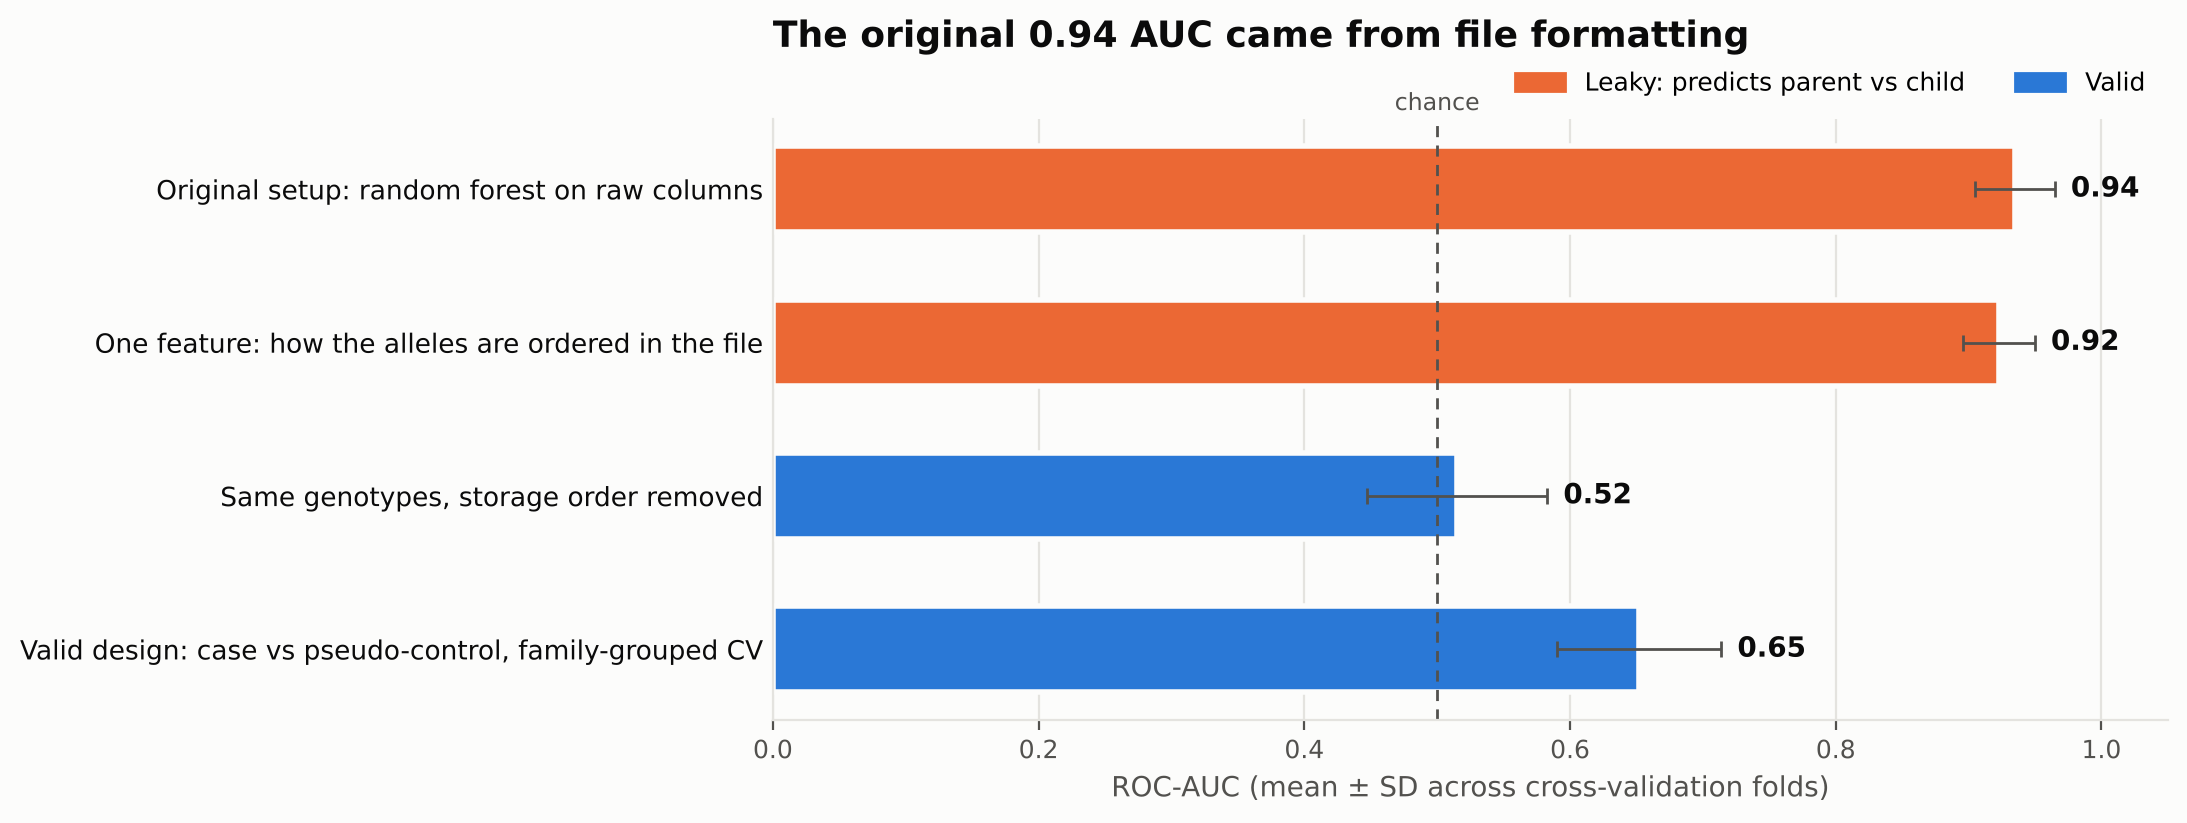
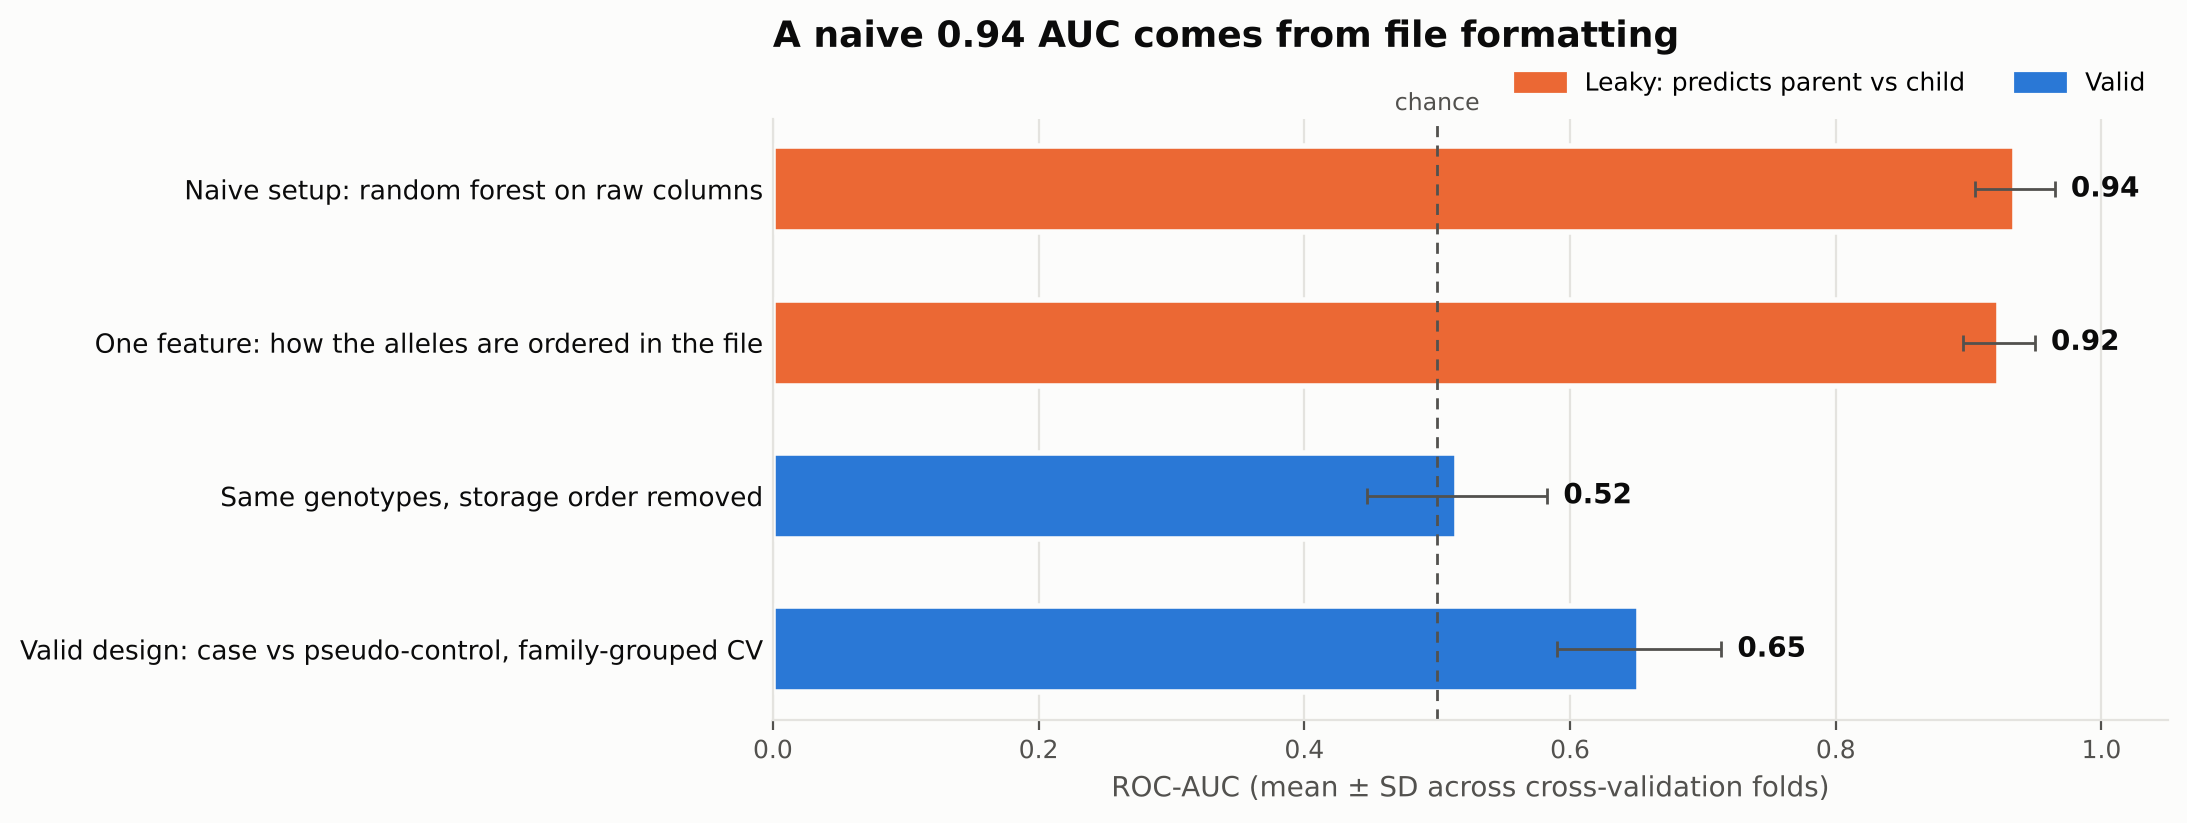
Reword leakage audit as an audit of a naive setup

Changed region(s): [[0.342, 0.0, 0.8084, 0.0608], [0.0622, 0.2126, 0.1244, 0.243]]

diff --git a/src/audit.py b/src/audit.py
@@ -1,7 +1,7 @@
-"""Leakage audit: why the original classifier scored 0.94 ROC-AUC.
+"""Leakage audit: why a naive classifier on this dataset scores 0.94 ROC-AUC.
 
-The first version of this project trained classifiers on the raw columns
-to separate label 2 ("Crohn's") from label 0 ("control"). Three things
+The obvious approach is to train a classifier on the raw columns to
+separate label 2 ("Crohn's") from label 0 ("control"). Three things
 explain its score, and none of them is biology:
 
 1. Label 0 means "status unknown", and every label-0 row is a parent.
@@ -42,7 +42,7 @@ def _logreg():
     return make_pipeline(SimpleImputer(), StandardScaler(), LogisticRegression(max_iter=5000))
 
 
-def original_labels(df: pd.DataFrame) -> np.ndarray:
+def naive_labels(df: pd.DataFrame) -> np.ndarray:
     return (df["crohn"] == AFFECTED).astype(int).to_numpy()
 
 
@@ -67,9 +67,9 @@ def order_flip_rate(df: pd.DataFrame) -> np.ndarray:
 
 
 def run_audit(df: pd.DataFrame) -> tuple[dict, np.ndarray]:
-    y = original_labels(df)
+    y = naive_labels(df)
     founders = is_founder(df)
-    raw = df.drop(columns=ID_COLS + ["crohn"])  # what the original pipeline used
+    raw = df.drop(columns=ID_COLS + ["crohn"])  # what a naive pipeline would use
     a1, a2 = alleles(df)
     order_free = dosage(a1, a2, allele_coding(df))
     flip = order_flip_rate(df)
@@ -87,8 +87,8 @@ def run_audit(df: pd.DataFrame) -> tuple[dict, np.ndarray]:
             "children_mean": round(float(flip[~founders].mean()), 3),
         },
         "auc": {
-            "original_raw_columns_logreg": _auc(_logreg(), raw, y),
-            "original_raw_columns_random_forest": _auc(rf, raw, y),
+            "naive_raw_columns_logreg": _auc(_logreg(), raw, y),
+            "naive_raw_columns_random_forest": _auc(rf, raw, y),
             "order_flip_rate_only": _auc(_logreg(), flip.reshape(-1, 1), y),
             "same_genotypes_order_removed_logreg": _auc(_logreg(), order_free, y),
             "same_genotypes_order_removed_random_forest": _auc(rf, order_free, y),

diff --git a/src/plots.py b/src/plots.py
@@ -89,8 +89,8 @@ def tdt_plot(results: pd.DataFrame, threshold: float, out: pathlib.Path) -> None
 def leakage_plot(audit: dict, honest: dict, out: pathlib.Path) -> None:
     auc = audit["auc"]
     rows = [
-        ("Original setup: random forest on raw columns",
-         auc["original_raw_columns_random_forest"], ORANGE),
+        ("Naive setup: random forest on raw columns",
+         auc["naive_raw_columns_random_forest"], ORANGE),
         ("One feature: how the alleles are ordered in the file",
          auc["order_flip_rate_only"], ORANGE),
         ("Same genotypes, storage order removed",
@@ -116,7 +116,7 @@ def leakage_plot(audit: dict, honest: dict, out: pathlib.Path) -> None:
     handles = [plt.Rectangle((0, 0), 1, 1, color=ORANGE), plt.Rectangle((0, 0), 1, 1, color=BLUE)]
     ax.legend(handles, ["Leaky: predicts parent vs child", "Valid"], loc="lower right",
               bbox_to_anchor=(1.0, 1.0), ncol=2)
-    ax.set_title("The original 0.94 AUC came from file formatting", pad=26)
+    ax.set_title("A naive 0.94 AUC comes from file formatting", pad=26)
     _save(fig, out)
 
 

diff --git a/run.py b/run.py
@@ -34,7 +34,7 @@ def main() -> None:
     print(hits[["snp", "minor_transmitted", "major_transmitted", "transmission_or", "p_value"]]
           .to_string(index=False), "\n")
 
-    # 2. Leakage audit of the original setup
+    # 2. Leakage audit of a naive setup
     audit, flip = run_audit(df)
     print("[2] Leakage audit (ROC-AUC, repeated 5-fold CV)")
     for name, m in audit["auc"].items():

diff --git a/tests/test_althea.py b/tests/test_althea.py
@@ -74,7 +74,7 @@ def test_children_are_phased_father_then_mother():
         assert from_father[called].all()
 
 
-def test_original_labels_are_parent_vs_child():
+def test_naive_labels_are_parent_vs_child():
     df = load_raw()
     founders = is_founder(df)
     assert (df.loc[founders, "crohn"].isin([0, 2])).all()

diff --git a/README.md b/README.md
@@ -3,10 +3,8 @@
 Althea analyses a family-based genetic dataset for Crohn's disease. It does three things:
 
 1. **Finds the association signal** using the test the study design calls for: the transmission disequilibrium test (TDT).
-2. **Audits an earlier classifier** that scored 0.94 ROC-AUC, and shows that the score came from how the file was formatted, not from genetics.
+2. **Audits for data leakage.** A naive classifier on the raw data scores 0.94 ROC-AUC. Althea shows that this score comes from how the file is formatted, not from genetics.
 3. **Builds a valid predictive baseline** (case vs pseudo-control, family-grouped cross-validation) that reaches an honest **0.65 AUC**.
-
-The first version of this project reported the 0.94. Working out why it was wrong turned out to be the most useful part of the project.
 
 ![Leakage audit](figures/leakage_audit.png)
 
@@ -42,11 +40,11 @@ In trio data, the right question is not "do patients differ from other people?".
 
 The cluster of hits at loc26–loc39 and loc74–loc79 is consistent with the IBD5 risk haplotype reported for this region. Full results are in [`results/tdt_results.csv`](results/tdt_results.csv).
 
-## 2. Leakage audit: why the original model scored 0.94
+## 2. Leakage audit: why a naive model scores 0.94
 
-The original pipeline treated `crohn = 0` as "healthy control" and trained classifiers on the raw columns. Two problems combined:
+The obvious approach is to treat `crohn = 0` as "healthy control" and train a classifier on the raw columns. That scores very well, for two reasons that have nothing to do with disease:
 
-**The labels encode family role.** Every `0` is a parent. The model was really learning to tell **parents from children**.
+**The labels encode family role.** Every `0` is a parent. A model trained on these labels learns to tell **parents from children**.
 
 **The file stores the two groups' alleles differently.** Children are *phased*: `a1` is the allele from the father and `a2` the allele from the mother. Parents' alleles are stored in a *fixed sorted order*. So the order of the two columns gives away who is a child:
 
@@ -54,8 +52,8 @@ The original pipeline treated `crohn = 0` as "healthy control" and trained class
 
 | Model (repeated 5-fold CV) | ROC-AUC |
 |---|---|
-| Original setup: random forest on raw columns | 0.94 ± 0.03 |
-| Original setup: logistic regression on raw columns | 0.91 ± 0.04 |
+| Naive setup: random forest on raw columns | 0.94 ± 0.03 |
+| Naive setup: logistic regression on raw columns | 0.91 ± 0.04 |
 | **One feature**: share of a person's alleles stored out of sorted order | **0.92 ± 0.03** |
 | Same genotypes, order removed (minor-allele counts), logistic regression | 0.52 ± 0.07 |
 | Same genotypes, order removed, random forest | 0.42 ± 0.05 |
@@ -92,7 +90,7 @@ pytest -q            # 6 tests
 ├── src/
 │   ├── data.py                 # loading, trio structure, order-free encoding, pseudo-controls
 │   ├── tdt.py                  # transmission disequilibrium test
-│   ├── audit.py                # leakage audit of the original setup
+│   ├── audit.py                # leakage audit of a naive setup
 │   ├── model.py                # case vs pseudo-control model, nested grouped CV
 │   └── plots.py                # figures
 ├── tests/test_althea.py        # encoding, TDT, phasing and label checks
